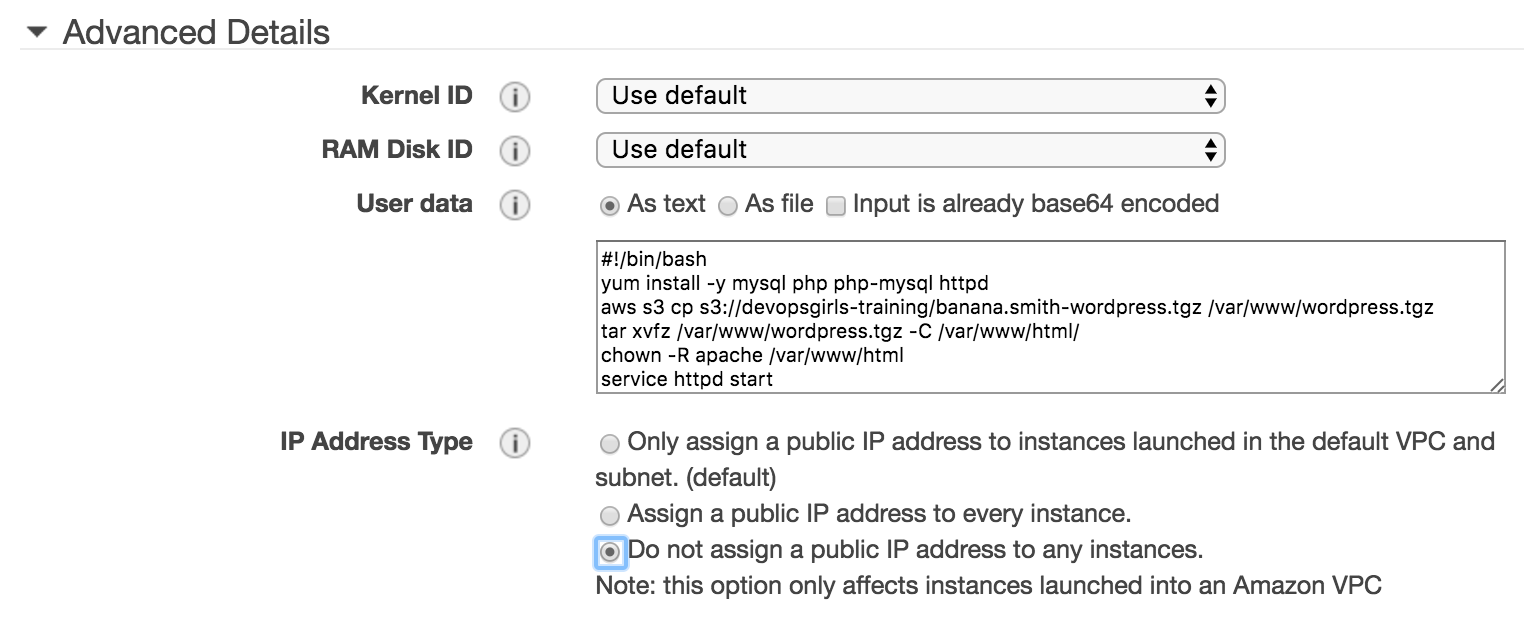
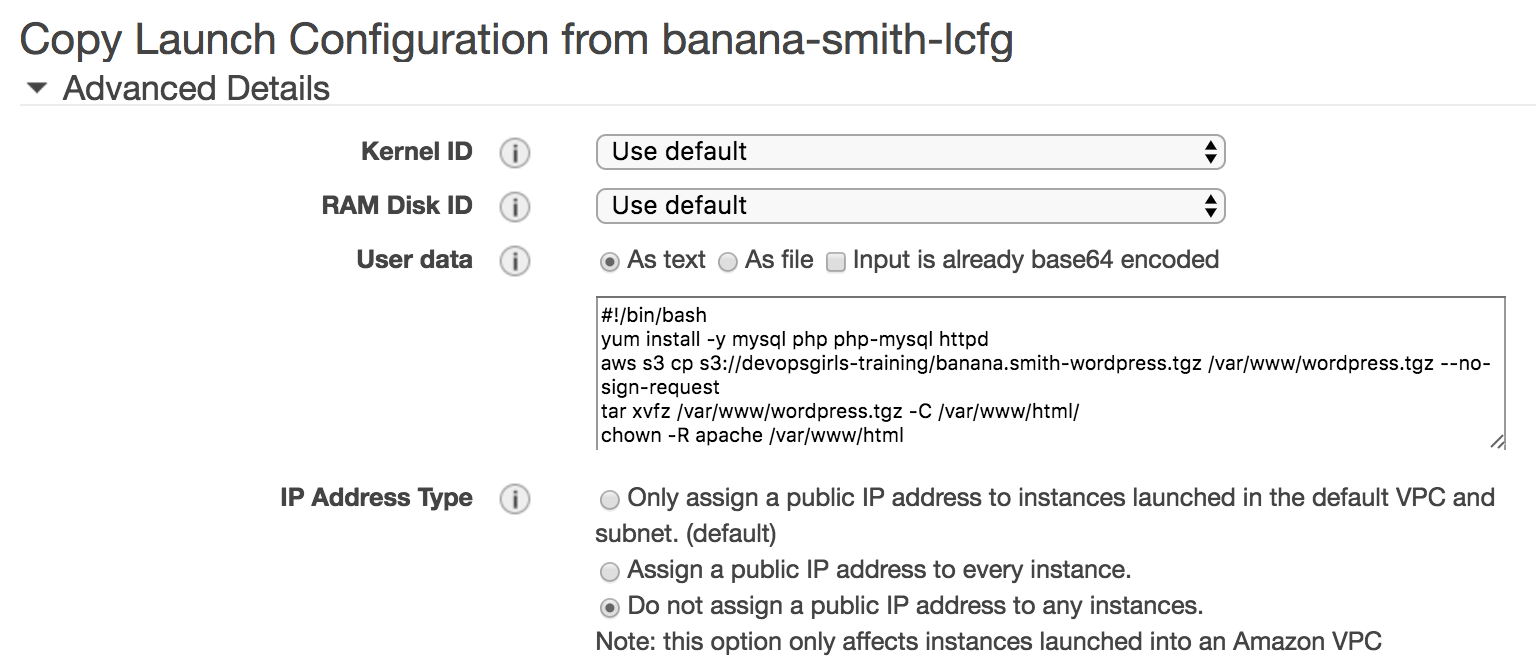
Fix userdata scripts, instructions

diff --git a/3-1-ASG.md b/3-1-ASG.md
@@ -8,8 +8,6 @@ Before we get started, here are a couple of loose concepts:
 
  - *Autoscaling Groups dictate how many instances you want to run.* It has many mechanisms for doing so - via manual intervention or system checks, but combined with Launch Configurations, you can automate the process of making instances.
 
- - *IAM Instance Profiles are machine users with limited permissions.* Think of it as a robot - it "impersonates" a person logging into your instance and doing things (in this case, installing Wordpress).
-
 Now that's out of the way, let's get started!
 
 ## What we're going to do
@@ -66,7 +64,7 @@ In the same panel, click on *Advanced Details*. In the *User Data* field, paste 
 ```
 #!/bin/bash
 yum install -y mysql php php-mysql httpd
-aws s3 cp s3://devopsgirls-training/firstname.lastname-wordpress.tgz /var/www/wordpress.tgz
+aws s3 cp s3://devopsgirls-training/firstname.lastname-wordpress.tgz /var/www/wordpress.tgz --no-sign-request
 tar xvfz /var/www/wordpress.tgz -C /var/www/html/
 chown -R apache /var/www/html
 service httpd start
